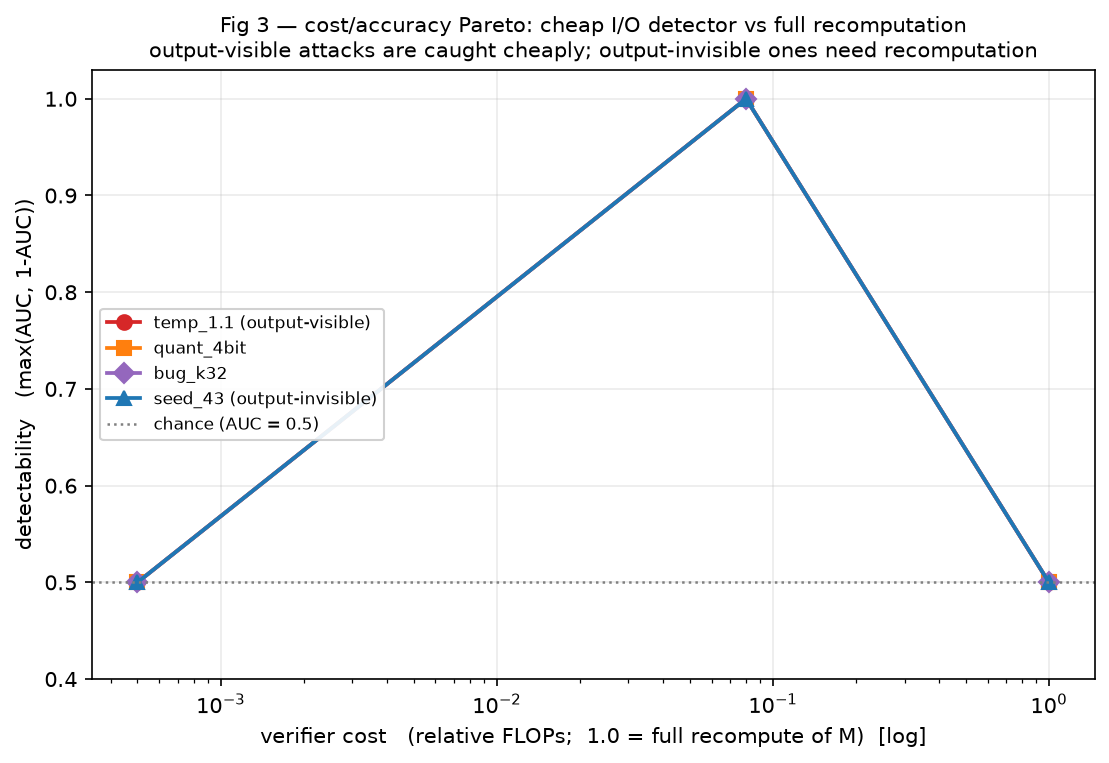
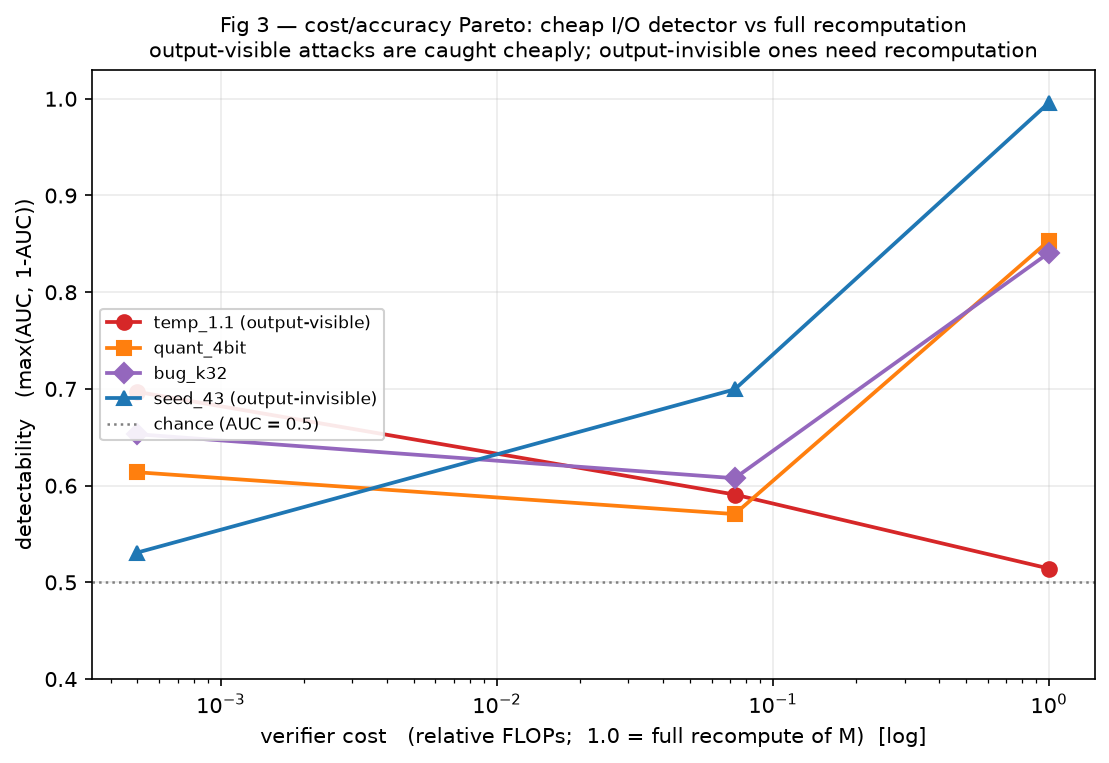
use real cheap proxy model for detection cost/ac measurement

diff --git a/ivgym/backends/hf_gpu.py b/ivgym/backends/hf_gpu.py
@@ -114,6 +114,8 @@ class HFGPUBackend:
         verifier_sigma: float = 0.02,
         act_benign_sigma: float = 0.05,
         max_prompt_tokens: int = 32,
+        proxy_model_name: str | None = None,
+        proxy_sigma: float = 0.6,
     ):
         import torch
         from transformers import AutoModelForCausalLM, AutoTokenizer
@@ -125,6 +127,7 @@ class HFGPUBackend:
         self.act_benign_sigma = act_benign_sigma
         self.max_prompt_tokens = max_prompt_tokens
         self.prompts = list(prompts) if prompts else list(DEFAULT_PROMPTS)
+        self.proxy_sigma = proxy_sigma
 
         torch_dtype = getattr(torch, dtype)
         self.tokenizer = AutoTokenizer.from_pretrained(model_name)
@@ -137,8 +140,34 @@ class HFGPUBackend:
         )
         self.vocab = int(self.model.config.vocab_size)
         self.hidden_dim = int(self.model.config.hidden_size)
+        self.n_params = sum(p.numel() for p in self.model.parameters())
         # prompt_id -> {"logits": [n_tokens, V] float32, "act": [n_tokens, H] float32}
         self._ref_cache: dict[int, dict] = {}
+
+        # --- optional REAL cheap proxy model (Option B) -------------------
+        # When set, `proxy_logits` returns a genuine separate-model forward pass
+        # instead of a noised read of M's cached logits. The proxy MUST share M's
+        # tokenizer/vocab so claimed token ids index its logits directly -- true
+        # for a same-family pair (e.g. M=Qwen3-8B, proxy=Qwen3-0.6B).
+        self.proxy_model = None
+        self.proxy_n_params = None
+        self._proxy_cache: dict[int, np.ndarray] = {}
+        if proxy_model_name:
+            self.proxy_model = (
+                AutoModelForCausalLM.from_pretrained(
+                    proxy_model_name, dtype=torch_dtype, attn_implementation="eager"
+                )
+                .to(device)
+                .eval()
+            )
+            proxy_vocab = int(self.proxy_model.config.vocab_size)
+            if proxy_vocab != self.vocab:
+                raise ValueError(
+                    f"proxy vocab ({proxy_vocab}) != reference vocab ({self.vocab}); "
+                    f"a black-box proxy detector reads M's claimed token ids against "
+                    f"the proxy's logits, so they must share a tokenizer. Use a "
+                    f"same-family proxy (e.g. Qwen3-0.6B for Qwen3-8B).")
+            self.proxy_n_params = sum(p.numel() for p in self.proxy_model.parameters())
 
     # ------------------------------------------------------------------ utils
     def _prompt_ids(self, prompt_id: int):
@@ -155,14 +184,24 @@ class HFGPUBackend:
 
     # --- cheap proxy + raw I/O (black-box detectors; NOT a recompute of M) ---
     def proxy_logits(self, prompt_id: int, position: int) -> np.ndarray:
-        """Stand-in for a cheap proxy LM. A genuine deployment would call a small
-        separate model; to avoid loading a second network we model the proxy as a
-        noisier read of the cached reference logits (a weaker, cheaper estimator).
-        Note: this reuses the ref cache only as a *base distribution* -- it is not
-        offered to recomputation defenses and adds proxy noise on top."""
+        """Cheap-proxy LM logits for the black-box detectors -- NEVER a recompute
+        of M.
+
+        If a real proxy model is configured (`proxy_model_name`, Option B), this
+        returns that small separate model's genuine forward-pass logits over
+        [prompt + claimed_tokens] -- a true "cheap model polices the expensive
+        model" read, with its own distribution that differs from M's wherever the
+        two models actually disagree.
+
+        Otherwise it falls back to the legacy stand-in: a noised read of M's
+        cached reference logits (a weaker, cheaper estimator). The fallback reuses
+        the ref cache only as a *base distribution* -- it is not offered to
+        recomputation defenses and adds proxy noise on top."""
+        if self.proxy_model is not None:
+            return self._proxy_cache[prompt_id][position]
         base = self._ref_cache[prompt_id]["logits"][position]
         prng = np.random.default_rng((self.model_seed, prompt_id, position, 555))
-        return base + prng.normal(0.0, 0.6, base.shape)
+        return base + prng.normal(0.0, self.proxy_sigma, base.shape)
 
     def prompt_text(self, prompt_id: int) -> str | None:
         return self.prompts[prompt_id % len(self.prompts)]
@@ -191,6 +230,21 @@ class HFGPUBackend:
             "logits": logits.astype(np.float32),
             "act": acts.astype(np.float32),
         }
+
+    def _populate_proxy_cache(self, prompt_id, prompt_ids, claimed, n_tokens):
+        """One prefill pass over [prompt + claimed] under the REAL cheap proxy
+        model -- the black-box detector's view of the sequence. No activations,
+        no benign verifier noise: the proxy is a genuinely different (smaller)
+        model, so the distribution gap to M IS the signal."""
+        torch = self._torch
+        claimed_t = torch.tensor([claimed], device=self.device, dtype=prompt_ids.dtype)
+        full = torch.cat([prompt_ids, claimed_t], dim=1)
+        L = prompt_ids.shape[1]
+        with torch.no_grad():
+            out = self.proxy_model(full)
+        idx = slice(L - 1, L - 1 + n_tokens)
+        logits = out.logits[0, idx].float().cpu().numpy()
+        self._proxy_cache[prompt_id] = logits.astype(np.float32)
 
     # ------------------------------------------------------ provider generation
     def generate(
@@ -261,4 +315,6 @@ class HFGPUBackend:
                 hidden_last = out.hidden_states[-1][0, -1] if record_activations else None
 
         self._populate_ref_cache(prompt_id, prompt_ids, claimed, n_tokens)
+        if self.proxy_model is not None:
+            self._populate_proxy_cache(prompt_id, prompt_ids, claimed, n_tokens)
         return seq

diff --git a/experiments/exp_io_detector_gpu.py b/experiments/exp_io_detector_gpu.py
@@ -51,6 +51,11 @@ from ivgym.core import SamplingSpec
 from ivgym.io_detectors import LLMJudgeIODetector
 
 MODEL = os.environ.get("IVGYM_MODEL", "Qwen/Qwen3-0.6B")
+# Option B: a REAL cheap proxy model for the black-box detectors. When set, the
+# backend loads it as a second network and `proxy_logits` is its genuine forward
+# pass (not a noised read of M). Use a same-family proxy so the tokenizer/vocab
+# match M, e.g. IVGYM_MODEL=Qwen/Qwen3-8B IVGYM_PROXY_MODEL=Qwen/Qwen3-0.6B.
+PROXY_MODEL = os.environ.get("IVGYM_PROXY_MODEL") or None
 N_PROMPTS = int(os.environ.get("IVGYM_PROMPTS", 12))
 N_TOKENS = int(os.environ.get("IVGYM_TOKENS", 64))
 BATCH = int(os.environ.get("IVGYM_BATCH", 100))
@@ -112,11 +117,21 @@ def run():
               "honest and null pools will share some prompt text.", flush=True)
 
     t0 = time.time()
-    print(f"loading {MODEL} ...", flush=True)
-    backend = HFGPUBackend(model_name=MODEL)
+    print(f"loading {MODEL}"
+          + (f"  + proxy {PROXY_MODEL}" if PROXY_MODEL else "") + " ...", flush=True)
+    backend = HFGPUBackend(model_name=MODEL, proxy_model_name=PROXY_MODEL)
     print(f"loaded in {time.time()-t0:.1f}s | vocab={backend.vocab} "
           f"hidden={backend.hidden_dim} | {N_PROMPTS} prompts x {N_TOKENS} tokens",
           flush=True)
+    if PROXY_MODEL:
+        # Put the cheap-proxy detectors on the Pareto x-axis at the MEASURED cost
+        # ratio (params(proxy)/params(M)), not the illustrative 0.08 default.
+        ratio = backend.proxy_n_params / backend.n_params
+        FLOPS["surface_stat"] = ratio
+        FLOPS["surface_rank"] = ratio
+        print(f"  REAL proxy: {backend.proxy_n_params/1e9:.2f}B params vs M "
+              f"{backend.n_params/1e9:.2f}B  ->  proxy cost ratio = {ratio:.3f} "
+              f"({1/ratio:.1f}x cheaper than recompute)", flush=True)
 
     spec = SamplingSpec()
     td = defenses.get("token_difr")